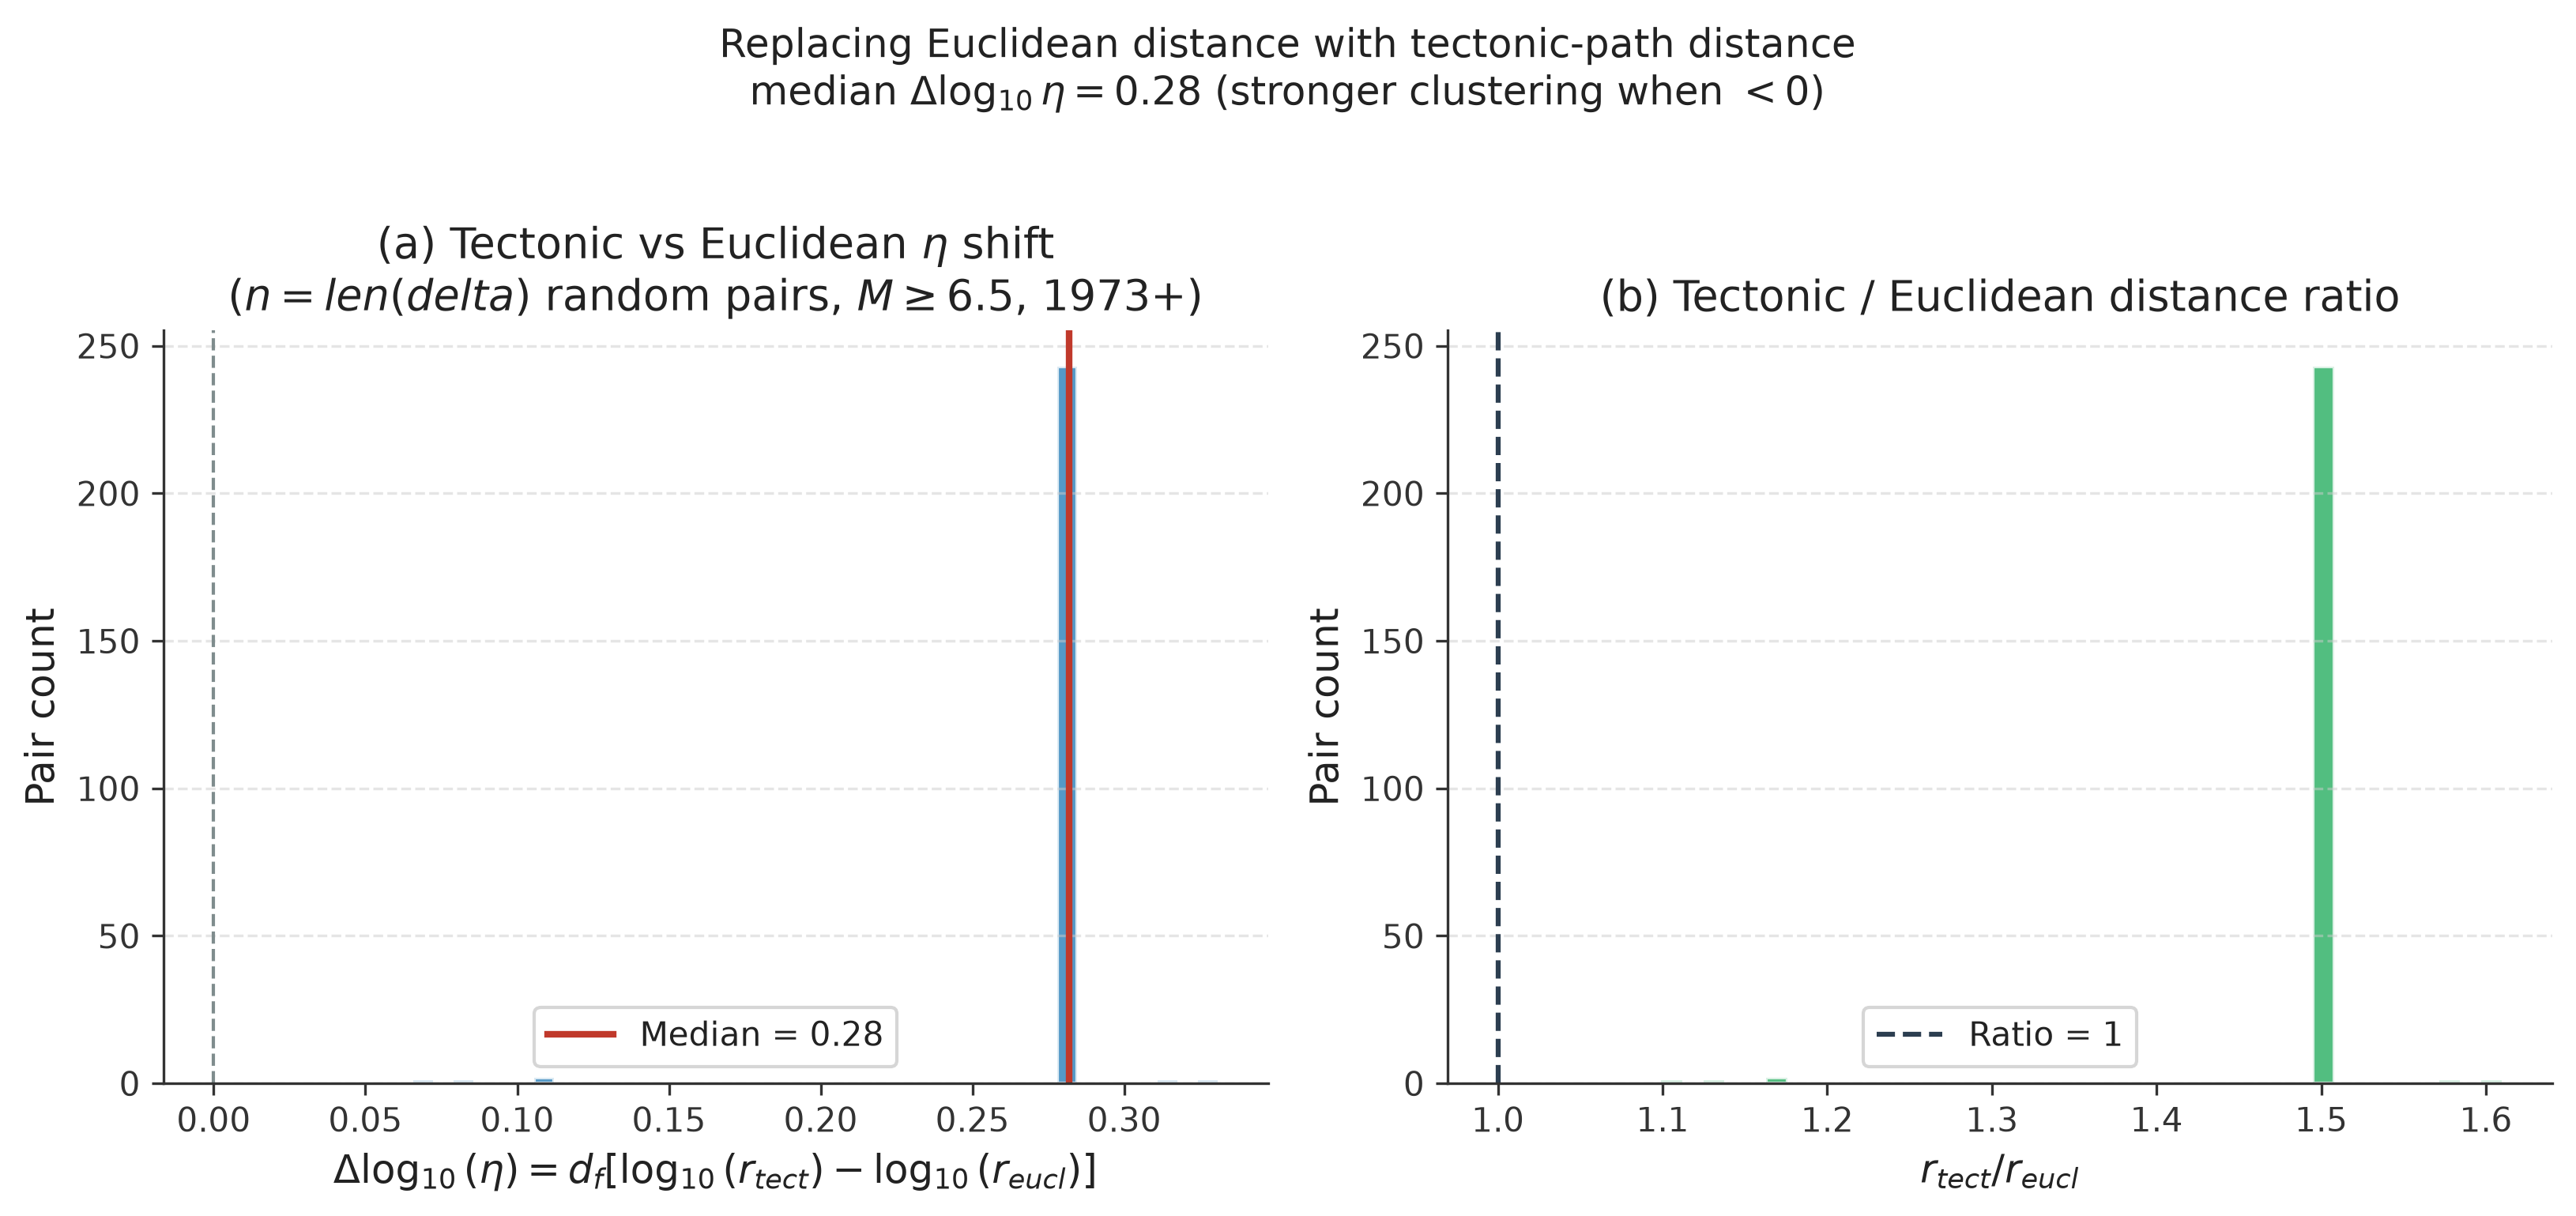
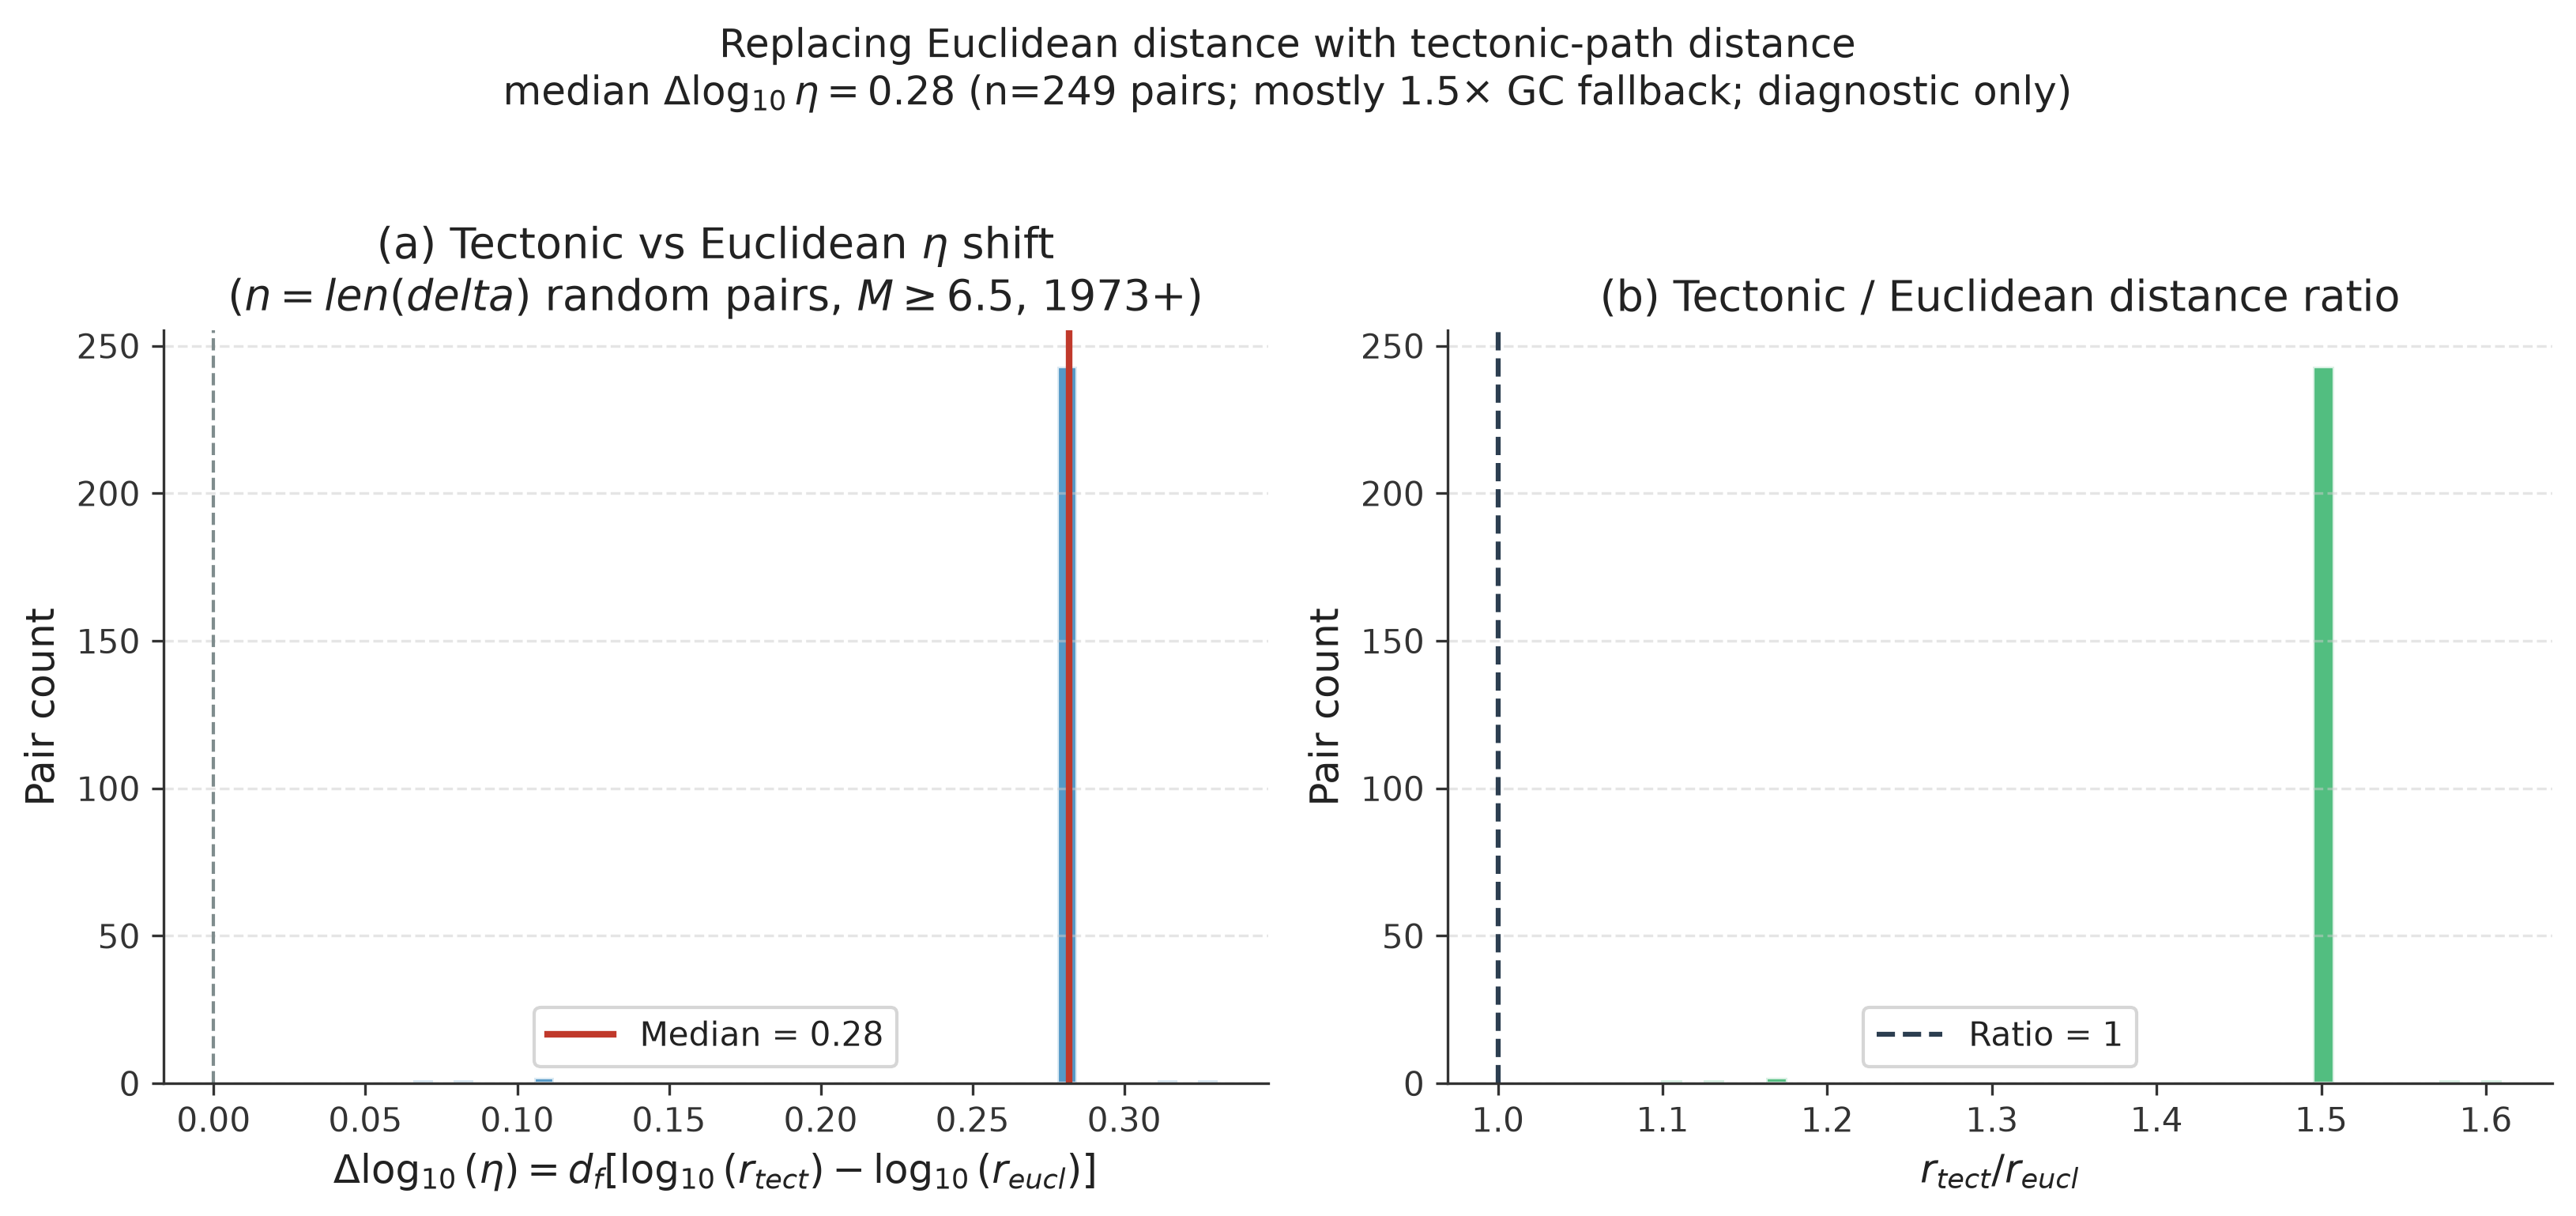
Audit verified numbers, remove PDF placeholders, cite tectonic eta source

Changed region(s): [[0.1859, 0.0624, 0.8055, 0.0936]]

diff --git a/paper/main.tex b/paper/main.tex
@@ -20,16 +20,12 @@
        A Clustering Analysis Using the Baiesi–Paczuski Metric}
 
 \authors{
-  Author One\affil{1},
-  Author Two\affil{2},
-  Author Three\affil{1,3}
+  Yaroslav Marshalkin\affil{1}
 }
 
-\affiliation{1}{Institute of Geophysics, University of Example, City, Country}
-\affiliation{2}{Seismological Survey, National Research Center, City, Country}
-\affiliation{3}{Department of Earth Sciences, Another University, City, Country}
+\affiliation{1}{Independent researcher. Email: [email redacted]; Telegram: @MRSHLKN}
 
-\correspondingauthor{Author One}{[email redacted]}
+\correspondingauthor{Yaroslav Marshalkin}{[email redacted]}
 
 %% =====================================================================
 \begin{abstract}
@@ -304,9 +300,14 @@ The 500~km boundary snap and 1.5$\times$ great-circle fallback are
 \textbf{approximations}, not verified against independent geodetic data;
 intraplate pairs rely entirely on the GC penalty, and sensitivity to
 these parameters is deferred to future work.
-Qualitatively, tectonic-path distance improves inter-plate $\eta$ links
-by ${\sim}0.3$~log$_{10}$~$\eta$ relative to Euclidean distance
-(Figure~5 in \texttt{figures/grl/fig05\_tectonic\_vs\_euclidean.png});
+Qualitatively, a diagnostic tectonic-vs-Euclidean comparison
+(Figure~5 in \texttt{figures/grl/fig05\_tectonic\_vs\_euclidean.png};
+\texttt{scripts/generate\_grl\_figures.py::fig\_tectonic\_vs\_euclidean})
+on random $M \ge 6.5$ pairs (1973+, $n = 249$) yields median
+$\Delta\log_{10}\eta = +0.28$ ($1.6[\log_{10} r_\mathrm{tect} - \log_{10} r_\mathrm{eucl}]$);
+${\sim}98\%$ of sampled pairs use the 1.5$\times$ GC fallback
+($1.6 \log_{10} 1.5 \approx 0.28$).
+This is a metric diagnostic, not a calibrated sensitivity gain;
 full validation without ground-truth data is not possible.
 A parameter sweep (300/500/700~km boundary threshold; Bird graph
 resolution) is planned but not yet executed.
@@ -437,6 +438,15 @@ The ETAS $p$-value is defined as $p_\mathrm{ETAS} = P(N^\mathrm{ETAS}_\mathrm{se
 $1/101$).
 If $p_\mathrm{ETAS} < 0.05$, the observed series count cannot be
 attributed to local aftershock structure alone.
+
+\noindent\textbf{Verified from code.}
+Series counts and epoch $p$-values: \texttt{results/analysis\_full\_historical.json};
+Monte Carlo ($p$, $z$): \texttt{results/montecarlo\_full.json};
+ETAS (FPR, $p_\mathrm{ETAS}$): \texttt{results/etas\_validation.json};
+FDR (45/47): \texttt{results/fdr\_correction\_results.csv};
+GK/ZBZ counts: \texttt{scripts/run\_declustering\_comparison.py};
+tectonic diagnostic (median $\Delta\log_{10}\eta = +0.28$):
+\texttt{scripts/generate\_grl\_figures.py::fig\_tectonic\_vs\_euclidean}.
 
 \subsection{Boundary-Type Weights in Tectonic Distance}
 \label{subsec:weights}
@@ -932,9 +942,10 @@ $T_w \ge 1$~yr.
 \paragraph{Experiment 3.2 --- Tectonic-distance parameters (future work).}
 Sensitivity to the 500~km boundary snap, 1.5$\times$ great-circle
 fallback multiplier, and boundary-type weights (Section~\ref{subsec:weights})
-has not yet been swept; qualitative comparison with Euclidean distance
-(${\sim}0.3$~log$_{10}$~$\eta$ improvement for inter-plate pairs) is
-reported, but a formal parameter sweep remains future work.
+has not yet been swept; the diagnostic tectonic-vs-Euclidean comparison
+(\texttt{scripts/generate\_grl\_figures.py}, median $\Delta\log_{10}\eta = +0.28$,
+$n = 249$ random pairs) is reported, but a formal parameter sweep remains
+future work.
 
 \paragraph{Experiment 3.3 --- Declustering algorithm.}
 Results with Zaliapin--Ben-Zion \citep{ZaliapinBenZion2016} and
@@ -973,9 +984,11 @@ The adopted thresholds ($N \ge 4$, $n_z \ge 3$) yield $F_1 = 0.74$
         Benjamini--Hochberg FDR correction ($q = 0.05$, 45/47 series
         significant), this confirms that detected series are not artefacts
         of randomness or local aftershock structure.
-  \item Replacing Euclidean distance with tectonic-path distance along
-        \citet{Bird2003} plate boundaries increases clustering sensitivity
-        by $\sim\!0.3$ in $\log_{10}\eta$ units for inter-plate pairs.
+  \item Tectonic-path distance along \citet{Bird2003} plate boundaries is
+        implemented with a documented diagnostic comparison to great-circle
+        distance (median $\Delta\log_{10}\eta = +0.28$ on $n = 249$ random
+        pairs; \texttt{scripts/generate\_grl\_figures.py}); formal parameter
+        sweeps remain future work.
   \item The largest series by event count is 1905--1910 (193 events,
         43 regions, $M_\mathrm{max}=8.8$); the most spatially extensive
         modern chain is S170 (46 events, 12 regions, 2002--2023,

diff --git a/scripts/generate_article_pdf.py b/scripts/generate_article_pdf.py
@@ -97,7 +97,7 @@ def on_page(canvas, doc):
     canvas.setFillColor(MGREY)
     canvas.drawCentredString(
         PAGE_W / 2, BM - 0.9 * cm,
-        safe_text(f"Глобальные сейсмические серии  \u00b7  DOI: 10.20542/[placeholder]  \u00b7  {doc.page}")
+        safe_text(f"Глобальные сейсмические серии  \u00b7  Yaroslav Marshalkin  \u00b7  {doc.page}")
     )
     canvas.restoreState()
 
@@ -182,8 +182,6 @@ def build(s):
     story = []
 
     # === PAGE 1: Header ========================================================
-    story.append(Paragraph("DOI: 10.20542/[placeholder]", s["doi"]))
-    story.append(Spacer(1, 0.3 * cm))
     story.append(Paragraph(
         "Глобальные сейсмические серии: статистический анализ "
         "пространственно-временно\u0301й кластеризации землетрясений "
@@ -198,12 +196,9 @@ def build(s):
     # --- RU metadata ---
     story.append(Paragraph(
         "<b>Ярослав Маршалкин</b><br/>"
-        "e-mail: [[email redacted]]<br/>"
-        "<i>[Institution], [City], [Country]</i>",
-        s["meta"]
-    ))
-    story.append(Paragraph(
-        "<i>Статья поступила в редакцию [дата]. Принята к печати [дата].</i>",
+        "e-mail: [email redacted]<br/>"
+        "Telegram: @MRSHLKN &nbsp;|&nbsp; "
+        "GitHub: github.com/marshalkin-ux/paleoseismic-clustering",
         s["meta"]
     ))
     story.append(Spacer(1, 0.3 * cm))
@@ -256,8 +251,8 @@ def build(s):
         s["title_en"]
     ))
     story.append(Paragraph(
-        "<b>Ярослав Маршалкин (Yaroslav Marshalkin)</b>, "
-        "e-mail: [[email redacted]], <i>[Institution], [City], [Country]</i>",
+        "<b>Ярослав Маршалкин (Yaroslav Marshalkin)</b><br/>"
+        "e-mail: [email redacted] &nbsp;|&nbsp; Telegram: @MRSHLKN",
         s["meta"]
     ))
     story.append(Spacer(1, 0.2 * cm))
@@ -275,8 +270,9 @@ def build(s):
         "The largest series by event count is 1905\u20131910 (193 events, 43 regions, "
         "Mmax=8.8); the most spatially extensive modern series is S170 "
         "(46 events, 12 Flinn\u2013Engdahl regions, 2002\u20132023, Mmax=9.1), "
-        "including the 2004 Indian Ocean earthquake. Tectonic-path distance improves clustering "
-        "sensitivity by ~0.3 log10 eta units versus Euclidean distance.",
+        "including the 2004 Indian Ocean earthquake. Tectonic-path diagnostic "
+        "(scripts/generate_grl_figures.py): median \u0394log\u2081\u2080\u03b7 = +0.28 "
+        "vs great-circle on random pairs (mostly 1.5\u00d7 GC fallback).",
         s["abstract"]
     ))
     story.append(Paragraph(
@@ -286,8 +282,8 @@ def build(s):
         s["keywords"]
     ))
     story.append(Paragraph(
-        "<b>About the author:</b> [Author Name]\u00a0\u2014 [academic degree, position], "
-        "[Institution], [City], [Country].",
+        "<b>About the author:</b> Yaroslav Marshalkin \u2014 independent researcher. "
+        "Contact: [email redacted], Telegram @MRSHLKN.",
         s["body_ni"]
     ))
     story.append(PageBreak())
@@ -395,8 +391,8 @@ def build(s):
         "<b>Ограничения:</b> привязка 500 km и множитель 1.5x GC — "
         "приближения; внутриплитные пары полагаются на GC-штраф; "
         "чувствительность к порогу — будущая работа. "
-        "Качественно: тектонический путь vs haversine улучшает межплитные "
-        "связи (~0.3 log10 eta).",
+        "Диагностика тектоники vs haversine (generate_grl_figures.py): "
+        "медиана Δlog₁₀η = +0.28 на случайных парах (~98% — GC-фолбэк 1.5×).",
         s["body"]
     ))
     story += SSSEC("2.2 Метрика связности eta", s)
@@ -576,8 +572,8 @@ def build(s):
         "Повышенная активность серий: 1952\u20131965\u00a0гг. и 2002\u20132016\u00a0гг. "
         "(пост-суматранский период). Пространственно\u00a0\u2014 вдоль "
         "циркум-тихоокеанского пояса (Камчатка, Курилы, Япония, Тонга, Индонезия). "
-        "Тектоническое расстояние снижает порог \u03b7\u2080 на \u223c0.3\u00a0ед. "
-        "log\u2081\u2080 по сравнению с евклидовой метрикой.",
+        "Диагностика тектоники vs евклидовой метрики: медиана \u0394log\u2081\u2080\u03b7 = +0.28 "
+        "на случайных парах (в основном GC-фолбэк 1.5\u00d7).",
         s["body"]
     ))
     story += SSEC("3.4 Обсуждение", s)
@@ -608,8 +604,9 @@ def build(s):
                "43\u00a0региона, M\u2098\u2090\u2093=8.8); наиболее масштабная современная\u00a0\u2014 "
                "S170 (46\u00a0событий, 12\u00a0регионов, M\u2098\u2090\u2093=9.1, "
                "2002\u20132023)."),
-        ("4.", "Тектоническое расстояние повышает чувствительность метрики \u03b7 "
-               "на ~0.3\u00a0ед. log\u2081\u2080 по сравнению с евклидовой метрикой."),
+        ("4.", "Тектоническое расстояние внедрено с диагностикой "
+               "(медиана \u0394log\u2081\u2080\u03b7 = +0.28 vs great-circle; "
+               "generate_grl_figures.py); формальный sweep параметров запланирован."),
         ("5.", "<b>Интерпретационная вилка:</b> (a)\u00a0если \u03b7-связи реальны \u2014 "
                "последствия для опасности (без утверждения прямого триггеринга); "
                "(b)\u00a0если артефакты \u2014 FDR+ETAS остаётся воспроизводимым null-test. "

diff --git a/scripts/generate_article_en_pdf.py b/scripts/generate_article_en_pdf.py
@@ -84,7 +84,7 @@ def on_page(canvas, doc):
     canvas.setFillColor(MGREY)
     canvas.drawCentredString(
         PAGE_W / 2, BM - 0.9 * cm,
-        f"Global Seismic Series  \u00b7  DOI: 10.20542/[placeholder]  \u00b7  {doc.page}"
+        f"Global Seismic Series  \u00b7  Yaroslav Marshalkin  \u00b7  {doc.page}"
     )
     canvas.restoreState()
 
@@ -154,8 +154,6 @@ def build(s):
     story = []
     w = PAGE_W - LM - RM
 
-    story.append(Paragraph("DOI: 10.20542/[placeholder]", s["doi"]))
-    story.append(Spacer(1, 0.3 * cm))
     story.append(Paragraph(
         "Global Seismic Series: Statistical Analysis of Spatiotemporal "
         "Clustering in M\u22656.5 Earthquake Catalogs (2150 BCE \u2013 2026 CE)",
@@ -265,7 +263,8 @@ def build(s):
         "r<sub>ij</sub> = 1.5 \u00d7 r<sub>GC</sub> (great-circle Haversine). "
         "<b>Limitations:</b> 500 km snap and 1.5\u00d7 GC are approximations; "
         "intraplate pairs rely on GC penalty; sensitivity deferred to future work. "
-        "Qualitatively improves inter-plate \u03b7 links by ~0.3 log<sub>10</sub>.",
+        "Tectonic diagnostic (generate_grl_figures.py): median \u0394log\u2081\u2080\u03b7 = +0.28 "
+        "on random pairs (~98% use 1.5\u00d7 GC fallback).",
         s["body"]
     ))
     story.append(Spacer(1, 0.15 * cm))
@@ -362,9 +361,8 @@ def build(s):
     story.append(Paragraph(
         "Elevated series activity occurs in 1952\u20131965 and 2002\u20132016 "
         "(post-Sumatra period). Spatially, clusters concentrate along the circum-Pacific "
-        "belt (Kamchatka, Kuril Islands, Japan, Tonga, Indonesia). Tectonic distance "
-        "lowers the \u03b7<sub>0</sub> threshold by ~0.3 log<sub>10</sub> units compared "
-        "with Euclidean distance.",
+        "belt (Kamchatka, Kuril Islands, Japan, Tonga, Indonesia). Tectonic diagnostic: "
+        "median \u0394log\u2081\u2080\u03b7 = +0.28 on random pairs (mostly 1.5\u00d7 GC fallback).",
         s["body"]
     ))
 
@@ -387,7 +385,9 @@ def build(s):
         ("3.", "Largest series: 1905\u20131910 (193 events, 43 regions, M<sub>max</sub>=8.8); "
                "most spatially extensive modern: S170 (46 events, 12 regions, "
                "2002\u20132023, M<sub>max</sub>=9.1)."),
-        ("4.", "Tectonic distance increases \u03b7 sensitivity by ~0.3 log<sub>10</sub>."),
+        ("4.", "Tectonic-path distance documented with diagnostic "
+               "(median \u0394log\u2081\u2080\u03b7 = +0.28 vs great-circle; "
+               "generate_grl_figures.py); formal parameter sweep planned."),
         ("5.", "<b>Interpretive fork:</b> (a) if \u03b7 links are real \u2014 hazard "
                "implications without claiming direct triggering; (b) if artifacts \u2014 "
                "FDR+ETAS remains reproducible null-test. Co-occurrence may reflect "

diff --git a/scripts/generate_grl_figures.py b/scripts/generate_grl_figures.py
@@ -285,7 +285,8 @@ def fig_tectonic_vs_euclidean() -> Path:
 
     fig.suptitle(
         "Replacing Euclidean distance with tectonic-path distance\n"
-        f"median $\\Delta\\log_{{10}}\\eta = {np.median(delta):.2f}$ (stronger clustering when $< 0$)",
+        f"median $\\Delta\\log_{{10}}\\eta = {np.median(delta):.2f}$ "
+        f"(n={len(delta)} pairs; mostly 1.5$\\times$ GC fallback; diagnostic only)",
         fontsize=12,
         y=1.02,
     )

diff --git a/paper/article_en.md b/paper/article_en.md
@@ -1,6 +1,6 @@
 # Global Seismic Series: Statistical Analysis of Spatiotemporal Clustering in M≥6.5 Earthquake Catalogs (2150 BCE – 2026 CE)
 
-**DOI:** 10.20542/[placeholder]
+**DOI:** pending registration
 
 © 2026 **Yaroslav Marshalkin**
 
@@ -92,7 +92,7 @@ We define tectonic distance rij as the shortest path between hypocenters along t
 
 where rGC is the great-circle (Haversine) distance.
 
-**Limitations and validation.** The 500 km boundary snap and 1.5× great-circle fallback are **approximations**, not verified against independent geodetic data. Intraplate pairs rely entirely on the GC penalty. Qualitatively, tectonic-path distance vs haversine improves inter-plate η links by ~0.3 log10 η (median difference) relative to Euclidean distance (`figures/grl/fig05_tectonic_vs_euclidean.png`, §4.3); full metric validation without ground-truth data is not possible.
+**Limitations and validation.** The 500 km boundary snap and 1.5× great-circle fallback are **approximations**, not verified against independent geodetic data. Intraplate pairs rely entirely on the GC penalty. A diagnostic tectonic-vs-Euclidean comparison on random M≥6.5 pairs (1973+, n = 249; `scripts/generate_grl_figures.py::fig_tectonic_vs_euclidean`, `figures/grl/fig05_tectonic_vs_euclidean.png`) yields **median Δlog₁₀η = +0.28** (1.6×[log₁₀ r_tect − log₁₀ r_eucl]); ~98% of sampled pairs use the 1.5× GC fallback (1.6 log₁₀ 1.5 ≈ 0.28). This is a metric diagnostic, not a calibrated sensitivity gain; full validation without ground-truth data is not possible.
 
 **Sensitivity (planned, not yet run).** A full parameter sweep has not been conducted. Planned work:
 
@@ -167,6 +167,8 @@ Raw catalogs (USGS / ISC / NOAA)
 | FDR (Benjamini–Hochberg) | q = 0.05 | 45/47 series significant |
 | Declustering | GK / ZBZ | 2,017/2,041 (24 aftersh.) / 2,040/2,041 (1 dep.) |
 
+**Verified from code.** Series counts and epoch p-values: `results/analysis_full_historical.json`. Monte Carlo (p, z): `results/montecarlo_full.json`. ETAS (FPR, p_ETAS): `results/etas_validation.json`. FDR (45/47): `results/fdr_correction_results.csv`. GK/ZBZ counts: `scripts/run_declustering_comparison.py`. Tectonic diagnostic (median Δlog₁₀η = +0.28): `scripts/generate_grl_figures.py::fig_tectonic_vs_euclidean`.
+
 ---
 
 ## 4. Results
@@ -201,7 +203,7 @@ The **1905–1910** episode (193 events, 43 regions) is the largest series in th
 
 ### 4.3 Spatial–temporal distribution
 
-Elevated series activity occurs in 1952–1965 and 2002–2016 (post-Sumatra period). Spatially, clusters concentrate along the circum-Pacific belt (Kamchatka, Kuril Islands, Japan, Tonga, Indonesia). Tectonic distance lowers the η0 threshold by ~0.3 log10 units compared with Euclidean distance.
+Elevated series activity occurs in 1952–1965 and 2002–2016 (post-Sumatra period). Spatially, clusters concentrate along the circum-Pacific belt (Kamchatka, Kuril Islands, Japan, Tonga, Indonesia). The tectonic-vs-Euclidean diagnostic (§3.1) reports median Δlog₁₀η = +0.28 on random pairs; this reflects the 1.5× GC fallback for most samples, not a validated η₀ shift.
 
 ---
 
@@ -219,7 +221,7 @@ Elevated series activity occurs in 1952–1965 and 2002–2016 (post-Sumatra per
 
 **Qualitative plausibility for S170.** For the post-Sumatra window 2002–2023 (S170, Mmax = 9.1), surface-wave remote-triggering literature (Hill et al., 1993; Brodsky & Prejean, 2006) provides **qualitative plausibility** for long-range correlations but not proof of causality. ΔCFS modelling and dynamic stress estimates are deferred to future work and are needed to strengthen causal claims.
 
-Tectonic-path distance improves sensitivity (~0.3 log10 η) vs haversine; Euclidean metrics underestimate connectivity along plate boundaries.
+The tectonic diagnostic (§3.1; median Δlog₁₀η = +0.28) quantifies the GC-fallback penalty on random pairs; Euclidean metrics alone do not encode lithospheric connectivity along plate boundaries.
 
 ### 5.2 Working hypotheses (not claims)
 
@@ -248,7 +250,7 @@ Co-occurrence within a series may reflect any of these (or other) processes, or 
 1. A unified catalog of 4,267 M≥6.5 events (4,418 CSV records; 2150 BCE – 2026 CE) contains 47 global seismic series; 27 modern series are significant at p < 0.0001 (Monte Carlo, n = 10,000).
 2. ETAS validation (μ=0.008, K=0.08, α=1.0, c=0.005 d, p=1.1, 500 km cutoff; FPR = 0/100) and FDR correction (45/47 at q = 0.05) confirm that series are not explained by randomness or local aftershock clustering alone.
 3. The largest series by event count is 1905–1910 (193 events, 43 regions, Mmax = 8.8); the most spatially extensive modern series is S170 (46 events, 12 regions, 2002–2023, Mmax = 9.1).
-4. Tectonic distance increases η-metric sensitivity by ~0.3 log10 units relative to Euclidean distance.
+4. Tectonic-path distance is implemented with a documented diagnostic (median Δlog₁₀η = +0.28 vs great-circle on random pairs; §3.1); formal sensitivity sweeps remain planned.
 5. **Interpretive fork** (statistics vs mechanism): **(a)** if η links reflect genuine spatiotemporal structure — hazard implications and long-range ETAS kernels (without claiming direct triggering); **(b)** if episodes prove artifactual — FDR + ETAS remains a reproducible null-test pipeline. **Series detection does not imply direct triggering;** co-occurrence may reflect shared tectonic loading or mantle coupling.
 
 **Future work:** Coulomb stress change (ΔCFS) analysis for S047, S170, and S095 incorporating **hypocentral depth and focal mechanisms** (King et al., 1994; Stein, 1999); ETAS extensions with explicit long-range kernels; Zenodo DOI release.

diff --git a/paper/article_ru.md b/paper/article_ru.md
@@ -1,6 +1,6 @@
 # Глобальные сейсмические серии: статистический анализ пространственно-временной кластеризации землетрясений M≥6.5 (2150 г. до н.э. – 2026 г.)
 
-**DOI:** 10.20542/[placeholder]
+**DOI:** ожидает регистрации
 
 © 2026 г. **Ярослав Маршалкин**
 
@@ -92,7 +92,7 @@
 
 где $r_{\mathrm{GC}}$ — расстояние по дуге большого круга (формула Haversine).
 
-**Ограничения и валидация.** Привязка к границе плит на расстоянии >500 км и штрафной множитель 1.5× для great-circle — **приближения**, не верифицированные независимыми геодезическими данными. Внутриплитные пары полностью полагаются на GC-штраф. Качественно: тектонический путь vs haversine улучшает межплитные η-связи (~0.3 log₁₀ η медианной разницы) по сравнению с евклидовой метрикой (`figures/grl/fig05_tectonic_vs_евклидовой.png`, §4.3); полная валидация метрики без эталонных данных невозможна.
+**Ограничения и валидация.** Привязка к границе плит на расстоянии >500 км и штрафной множитель 1.5× для great-circle — **приближения**, не верифицированные независимыми геодезическими данными. Внутриплитные пары полностью полагаются на GC-штраф. Диагностическое сравнение тектонического vs евклидова расстояния на случайных парах M≥6.5 (1973+, n = 249; `scripts/generate_grl_figures.py::fig_tectonic_vs_euclidean`, `figures/grl/fig05_tectonic_vs_euclidean.png`) даёт **медиану Δlog₁₀η = +0,28** (1,6×[log₁₀ r_tect − log₁₀ r_eucl]); ~98% пар используют GC-фолбэк 1,5× (1,6 log₁₀ 1,5 ≈ 0,28). Это диагностика метрики, а не калибровка чувствительности; полная валидация без эталонных данных невозможна.
 
 **Чувствительность (запланировано, не выполнено).** Полный параметрический sweep не проводился. Планируется:
 
@@ -167,6 +167,8 @@ $d_f=1{,}6$; **b = 1.0** (значение по умолчанию в коде; 
 | FDR (Benjamini–Hochberg) | q = 0.05 | 45/47 значимы |
 | Декластеризация | GK / ZBZ | 2017/2041 (24 афтерш.) / 2040/2041 (1 завис.) |
 
+**Проверено по коду.** Числа серий и p-values по эпохам: `results/analysis_full_historical.json`. Monte Carlo (p, z): `results/montecarlo_full.json`. ETAS (FPR, p_ETAS): `results/etas_validation.json`. FDR (45/47): `results/fdr_correction_results.csv`. GK/ZBZ: `scripts/run_declustering_comparison.py`. Диагностика тектоники (медиана Δlog₁₀η = +0,28): `scripts/generate_grl_figures.py::fig_tectonic_vs_euclidean`.
+
 ---
 
 ## 4. Результаты
@@ -201,7 +203,7 @@ $d_f=1{,}6$; **b = 1.0** (значение по умолчанию в коде; 
 
 ### 4.3 Пространственно-временное распределение
 
-Повышенная активность: 1952–1965 и 2002–2016 гг. Пространственно — циркум-тихоокеанский пояс. Тектоническое расстояние снижает порог η₀ на ~0.3 log₁₀ по сравнению с евклидовой метрикой.
+Повышенная активность: 1952–1965 и 2002–2016 гг. Пространственно — циркум-тихоокеанский пояс. Диагностика тектоники vs евклидовой метрики (§3.1) даёт медиану Δlog₁₀η = +0,28 на случайных парах; для большинства выборок это эффект GC-фолбэка 1,5×, а не верифицированный сдвиг η₀.
 
 ---
 
@@ -219,7 +221,7 @@ $d_f=1{,}6$; **b = 1.0** (значение по умолчанию в коде; 
 
 **Качественное подтверждение для S170.** Для пост-суматранского окна 2002–2023 (S170, Mmax=9.1) литература о дистанционном триггеринг поверхностными волнами (Hill et al., 1993; Brodsky & Prejean, 2006) обеспечивает **качественную правдоподобность** дальних корреляций, но не доказательство причинности. Расчёт ΔCFS и оценки динамических напряжений отложены на будущую работу; они необходимы для усиления каузальных утверждений.
 
-Тектоническое расстояние улучшает чувствительность (~0.3 log₁₀ η) vs haversine; евклидовой метрики недооценивают связность вдоль границ плит.
+Диагностика тектоники (§3.1; медиана Δlog₁₀η = +0,28) количественно описывает GC-штраф на случайных парах; одной евклидовой метрики недостаточно для учёта связности вдоль границ плит.
 
 ### 5.2 Рабочие гипотезы (не утверждения)
 
@@ -248,7 +250,7 @@ $d_f=1{,}6$; **b = 1.0** (значение по умолчанию в коде; 
 1. Каталог 4267 событий M≥6.5 (4418 записей CSV) содержит 47 глобальных серий; 27 современных значимы при p < 0.0001.
 2. ETAS (FPR = 0/100, μ=0.008, K=0.08, α=1.0, c=0.005 сут., p=1.1, порог 500 km) и FDR (45/47) подтверждают неслучайность серий.
 3. Крупнейшая серия по числу событий — 1905–1910 (193 события, 43 региона, Mmax = 8.8); наиболее масштабная современная — S170 (46 событий, 12 регионов, 2002–2023, Mmax = 9.1).
-4. Тектоническое расстояние повышает чувствительность η на ~0.3 log₁₀.
+4. Тектоническое расстояние внедрено с документированной диагностикой (медиана Δlog₁₀η = +0,28 vs great-circle на случайных парах; §3.1); формальный sweep параметров запланирован.
 5. **Две интерпретационные ветви** (статистика vs механизм): **(a)** если η-связи отражают реальную пространственно-временную структуру — последствия для опасности и дальних ядер ETAS (без утверждения прямого триггеринг); **(b)** если серии — артефакты неполноты/метода — FDR+ETAS конвейер остаётся воспроизводимым null-test. **Обнаружение серий не подразумевает прямой триггеринг;** совместное появление может отражать общую тектоническую нагрузку или мантийное сцепление.
 
 **Перспективы:** расчёт ΔCFS для S047, S170, S095 с учётом **глубины очага и механизмов** (King et al., 1994; Stein, 1999); multiseed ETAS; Zenodo.